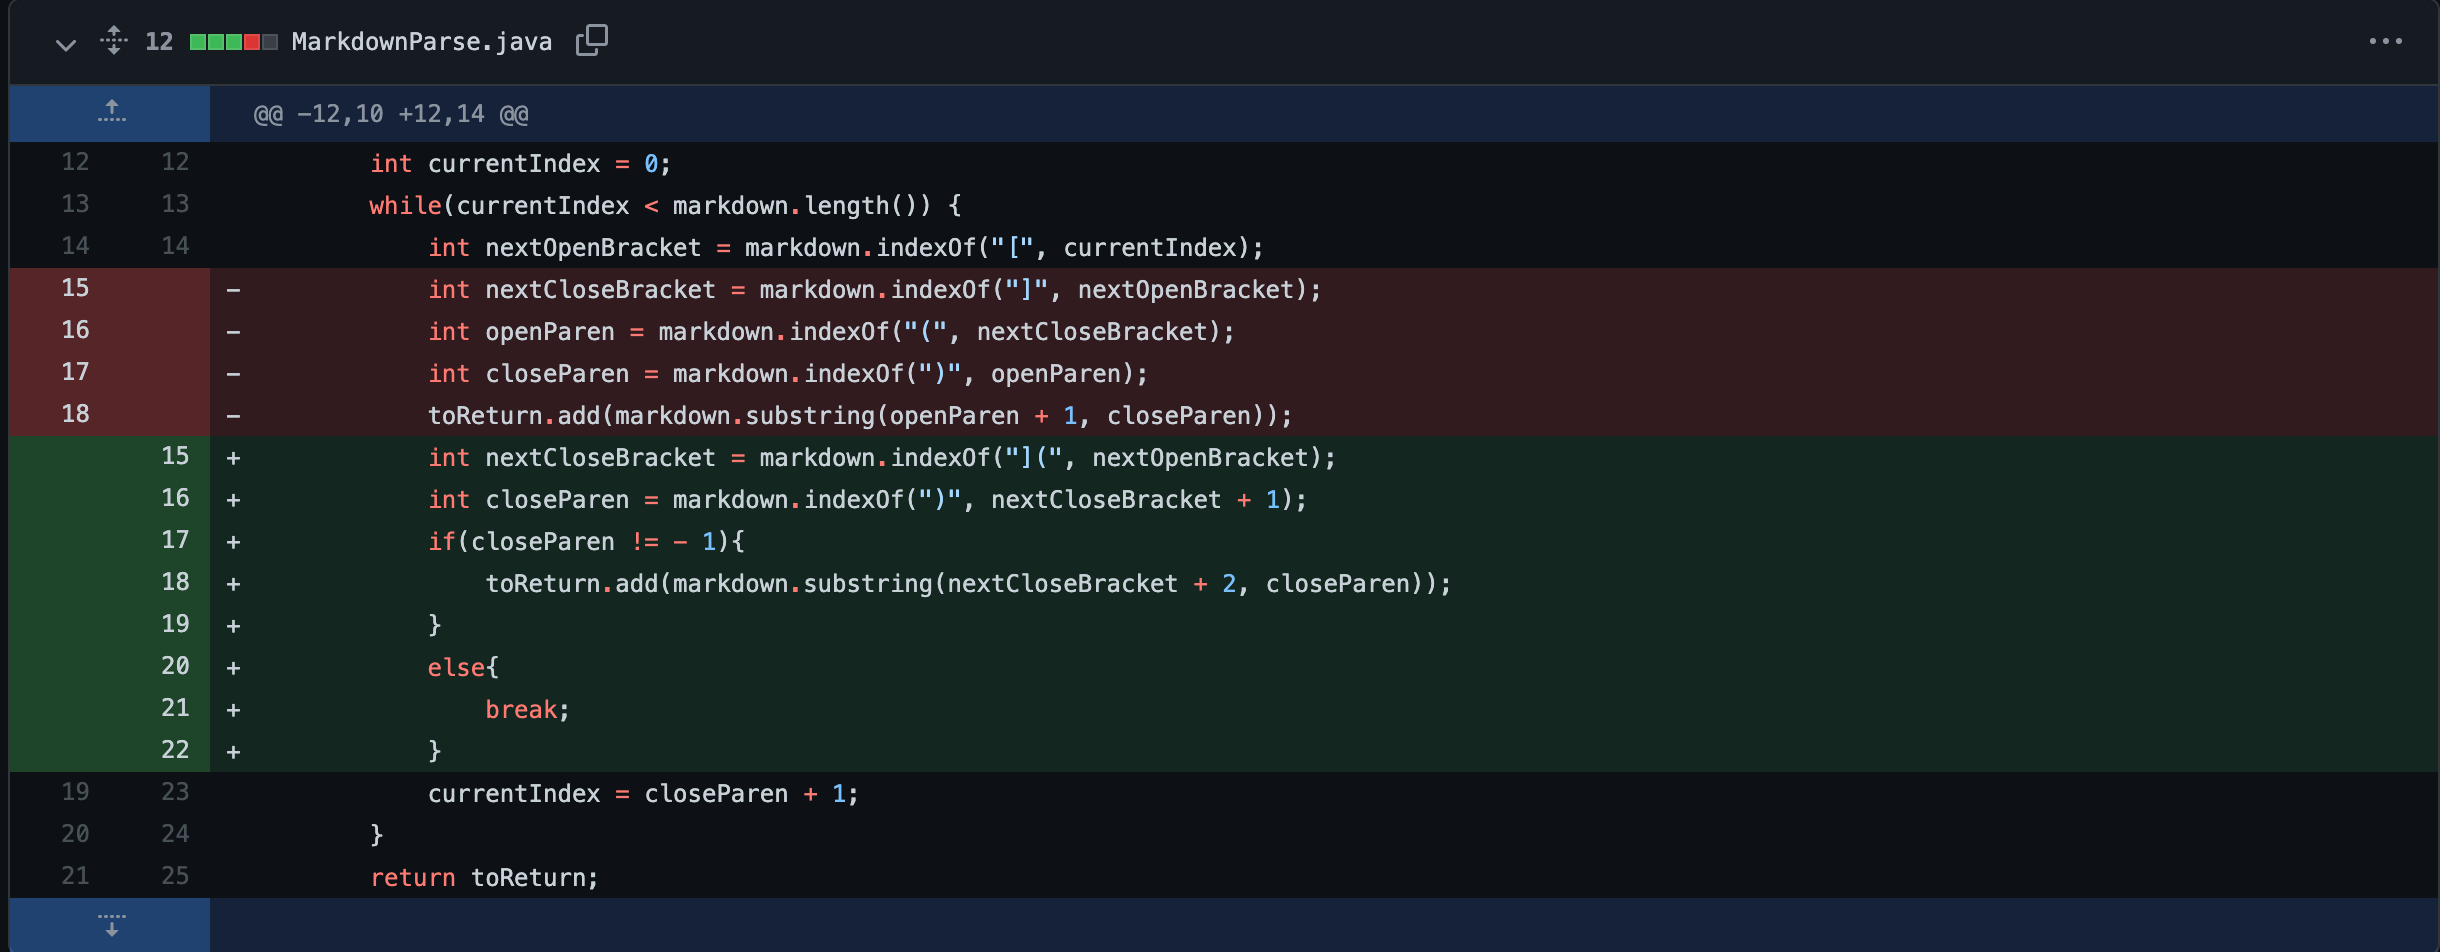
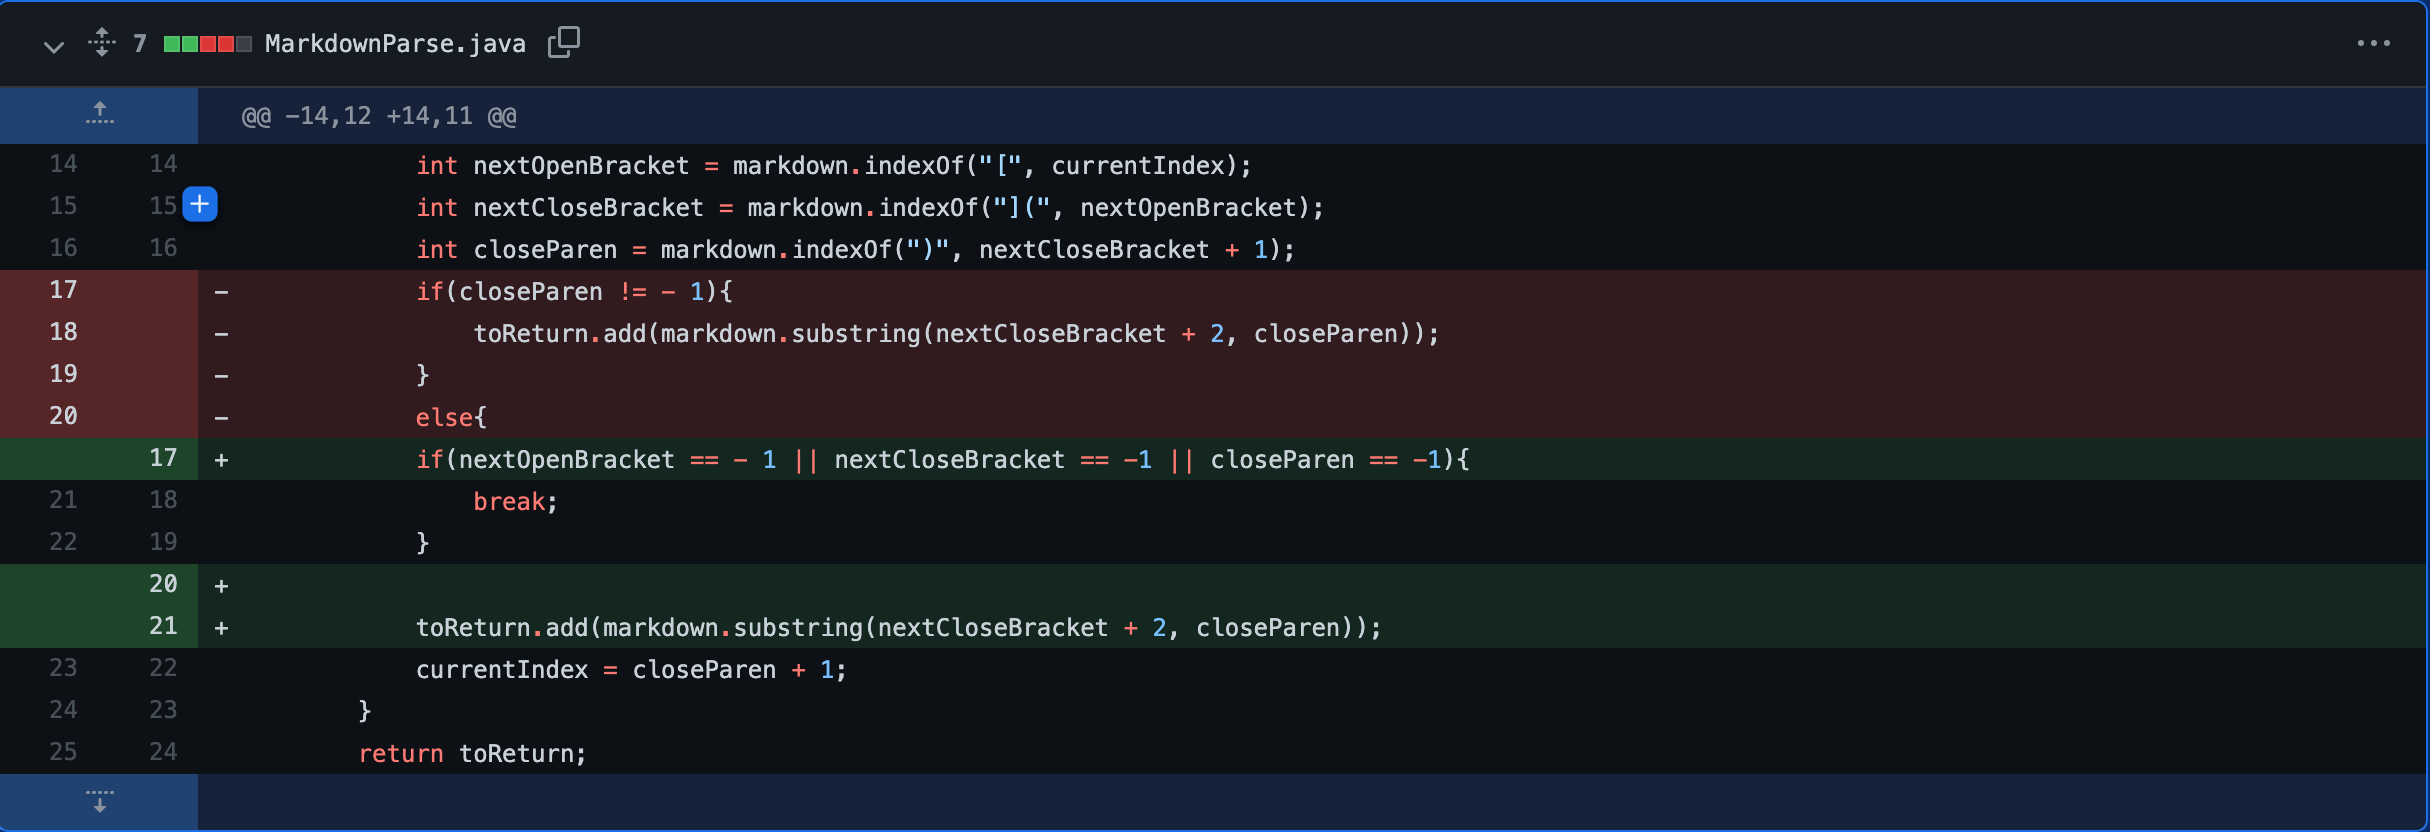
updated first bug writeup

Changed region(s): [[0.0, 0.0, 1.0, 1.0], [0.1543, 0.6875, 0.463, 0.8438], [0.4938, 0.75, 0.5556, 0.7812]]

diff --git a/lab-report-2-week-4.md b/lab-report-2-week-4.md
@@ -5,35 +5,48 @@
 ---
 
 # **First Code Change**
-
+**Bug:** This code change attempted to fix the infite-loop bug that occurred when non-link lines were added at the end of the file.
 
 ## Screenshot of Code Change
+
 ![Image](labreport2_pictures/first_bug.png)
 
-## Link to failing test file
-[Failing Test File on GH](https://github.com/ryan-truong/markdown-parse/blob/main/test-file3.md) | [File Download](labreport2_files/test-file3.md)
+## Link to Failing Test File
+
+
+[Failing Test File on GH](https://github.com/ryan-truong/markdown-parse/blob/f654b025656bd716269912381403a398678a33bc/test3.md) | [File Download](labreport2_files/test-file3.md)
 
 Code within the linked file:
 ```
-[some text] in between (parenthesis)
+[Link](test.com)
+[Link](test2.com)
+[)
 ```
 
-## Symptom of the failure inducing input
+## Symptom Of the Failure Inducing Input
 ![Image](labreport2_pictures/first_symptom.png)
 
-## Relationship between the bug, symptom, and the failure inducing input
+## Relationship Between the Bug, Symptom, and the Failure Inducing Input
 
 ---
 # **Second Code Change**
 
 
 ## Screenshot of Code Change
+![Image](labreport2_pictures/second_bug.png)
 
-## Link to failing test file
+## Link to Failing Test File
+[Failing Test File on GH]()
 
-## Symptom of the failure inducing input
+Code within the linked file:
+```
 
-## Relationship between the bug, symptom, and the failure inducing input
+```
+
+## Symptom Of the Failure Inducing Input
+
+
+## Relationship Between the Bug, Symptom, and the Failure Inducing Input
 
 ---
 # **Third Code Change**
@@ -41,8 +54,8 @@ Code within the linked file:
 
 ## Screenshot of Code Change
 
-## Link to failing test file
+## Link to Failing Test File
 
-## Symptom of the failure inducing input
+## Symptom Of the Failure Inducing Input
 
-## Relationship between the bug, symptom, and the failure inducing input
+## Relationship Between the Bug, Symptom, and the Failure Inducing Input

diff --git a/labreport2_files/test-file3.md b/labreport2_files/test-file3.md
@@ -1,1 +1,3 @@
-[some text] in between (parenthesis)
+[Link](test.com)
+[Link](test2.com)
+[)
